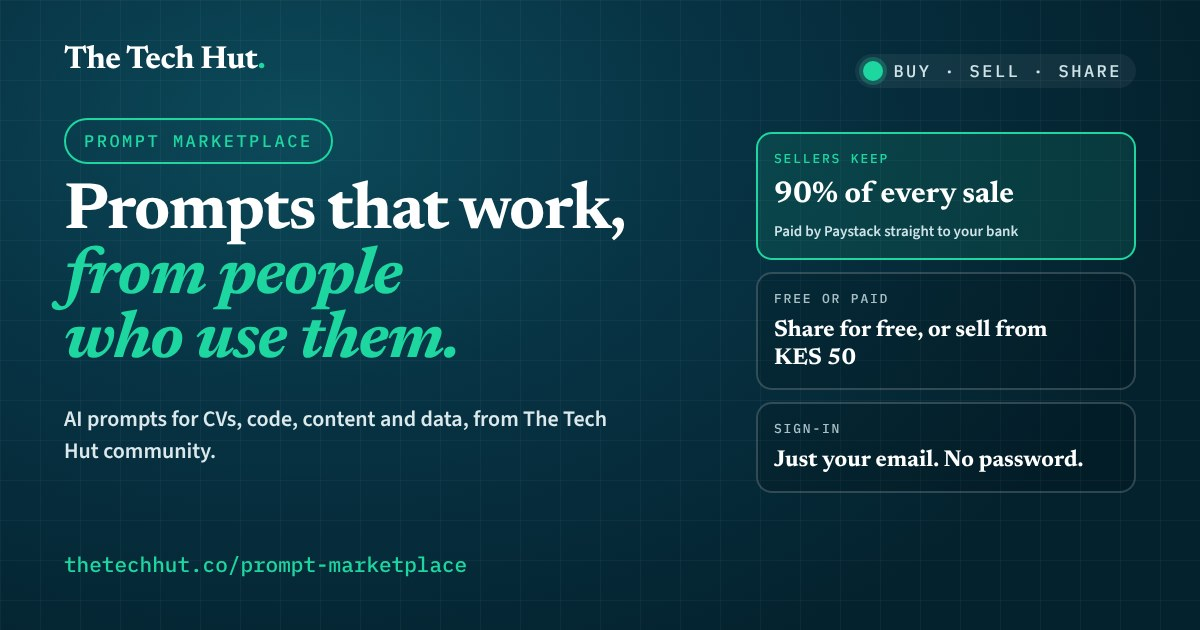
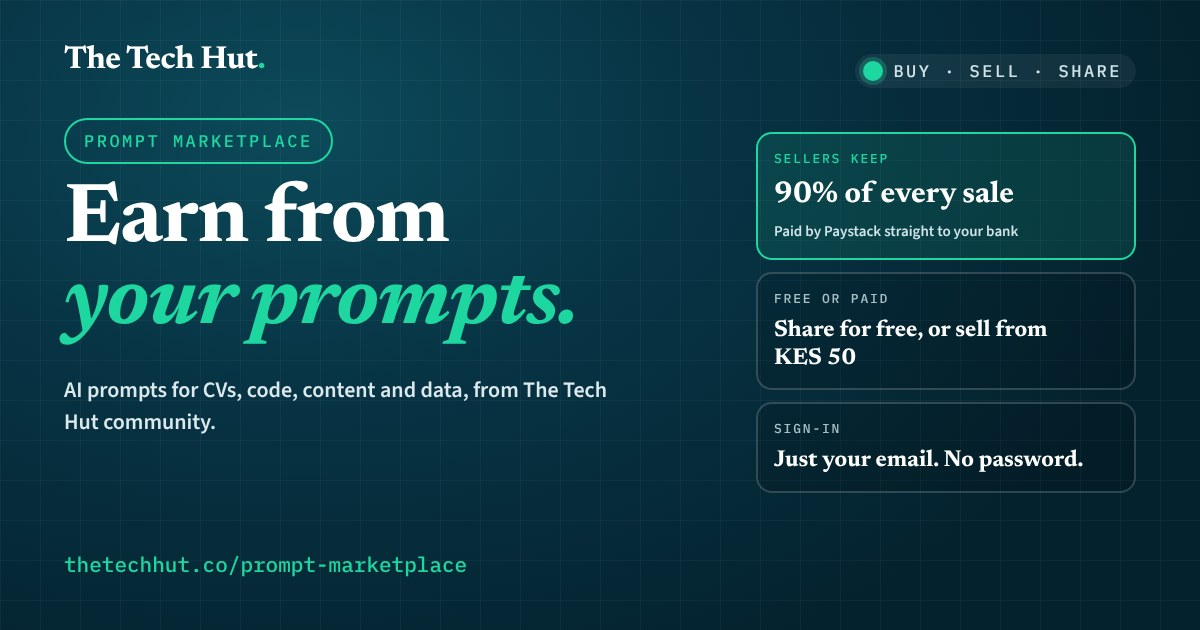
Prompt marketplace share image: headline "Earn from your prompts."
Image alt text updated to match; cache tag ?v=3 so link previews refresh.

Claude-Session: https://claude.ai/code/session_012aqDtYgHZhPc87kBUa8yyQ

Changed region(s): [[0.0308, 0.2714, 0.5242, 0.573], [0.0308, 0.6032, 0.5242, 0.7238]]

diff --git a/prompt-marketplace/index.html b/prompt-marketplace/index.html
@@ -11,15 +11,15 @@
     <meta property="og:title" content="Prompt marketplace: prompts that work, from people who use them">
     <meta property="og:description" content="Buy, sell and share AI prompts. Sign in with your email. Sellers keep 90%.">
     <meta property="og:url" content="https://thetechhut.co/prompt-marketplace/">
-    <meta property="og:image" content="https://thetechhut.co/assets/img/social/prompts.jpg?v=2">
+    <meta property="og:image" content="https://thetechhut.co/assets/img/social/prompts.jpg?v=3">
     <meta property="og:image:width" content="1200">
     <meta property="og:image:height" content="630">
-    <meta property="og:image:alt" content="The Tech Hut prompt marketplace: prompts that work, from people who use them. Sellers keep 90% of every sale.">
+    <meta property="og:image:alt" content="The Tech Hut prompt marketplace: earn from your prompts. Sellers keep 90% of every sale.">
     <meta property="og:locale" content="en_KE">
     <meta name="twitter:card" content="summary_large_image">
     <meta name="twitter:title" content="Prompt marketplace: prompts that work, from people who use them">
     <meta name="twitter:description" content="Buy, sell and share AI prompts. Sign in with your email. Sellers keep 90%.">
-    <meta name="twitter:image" content="https://thetechhut.co/assets/img/social/prompts.jpg?v=2">
+    <meta name="twitter:image" content="https://thetechhut.co/assets/img/social/prompts.jpg?v=3">
     <meta name="theme-color" content="#073B4C">
     <link rel="icon" href="/favicon.ico" sizes="any">
     <link rel="icon" href="/assets/img/favicon-192.png" type="image/png" sizes="192x192">
